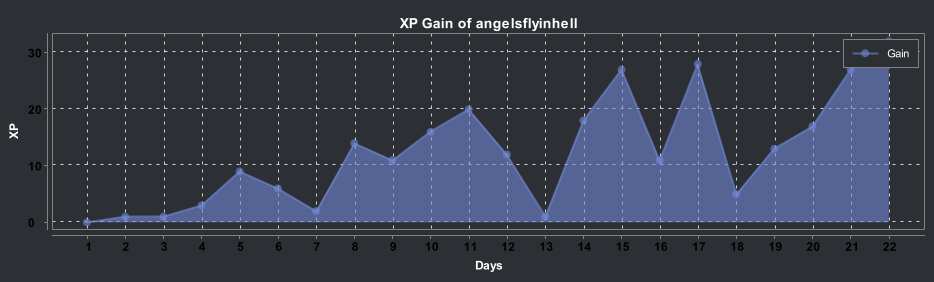
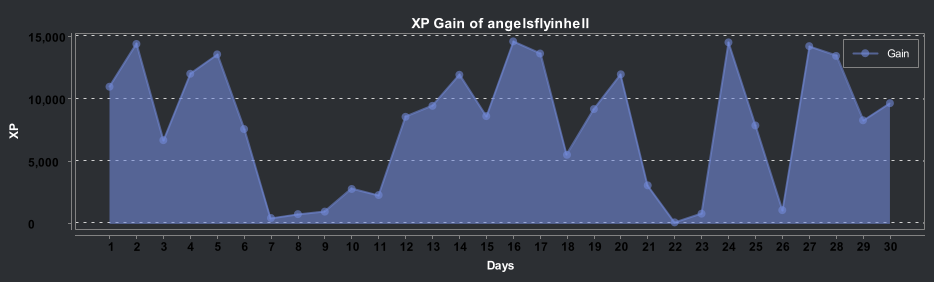
styling

diff --git a/src/main/java/com/angelsflyinhell/javaChart/core/Main.java b/src/main/java/com/angelsflyinhell/javaChart/core/Main.java
@@ -11,9 +11,8 @@ public class Main {
     public static void main(String[] args) throws IOException {
         HashMap<Integer, Integer> nodes = new HashMap<>();
         Random r = new Random();
-        int m = 2;
-        for (int i = 0; i < 22; i++) {
-            nodes.put(i, r.nextInt(m * (i + 1)));
+        for (int i = 0; i < 30; i++) {
+            nodes.put(i, r.nextInt(15000));
         }
 
         javaChart.process(nodes, "angelsflyinhell");

diff --git a/src/main/java/com/angelsflyinhell/javaChart/util/javaChart.java b/src/main/java/com/angelsflyinhell/javaChart/util/javaChart.java
@@ -28,6 +28,7 @@ public class javaChart {
 
         chart.getStyler().setAntiAlias(true);
         chart.getStyler().setSeriesColors(colors);
+        chart.getStyler().setPlotGridVerticalLinesVisible(false);
 
         chart.getStyler().setLegendPosition(Styler.LegendPosition.InsideNE);
 
